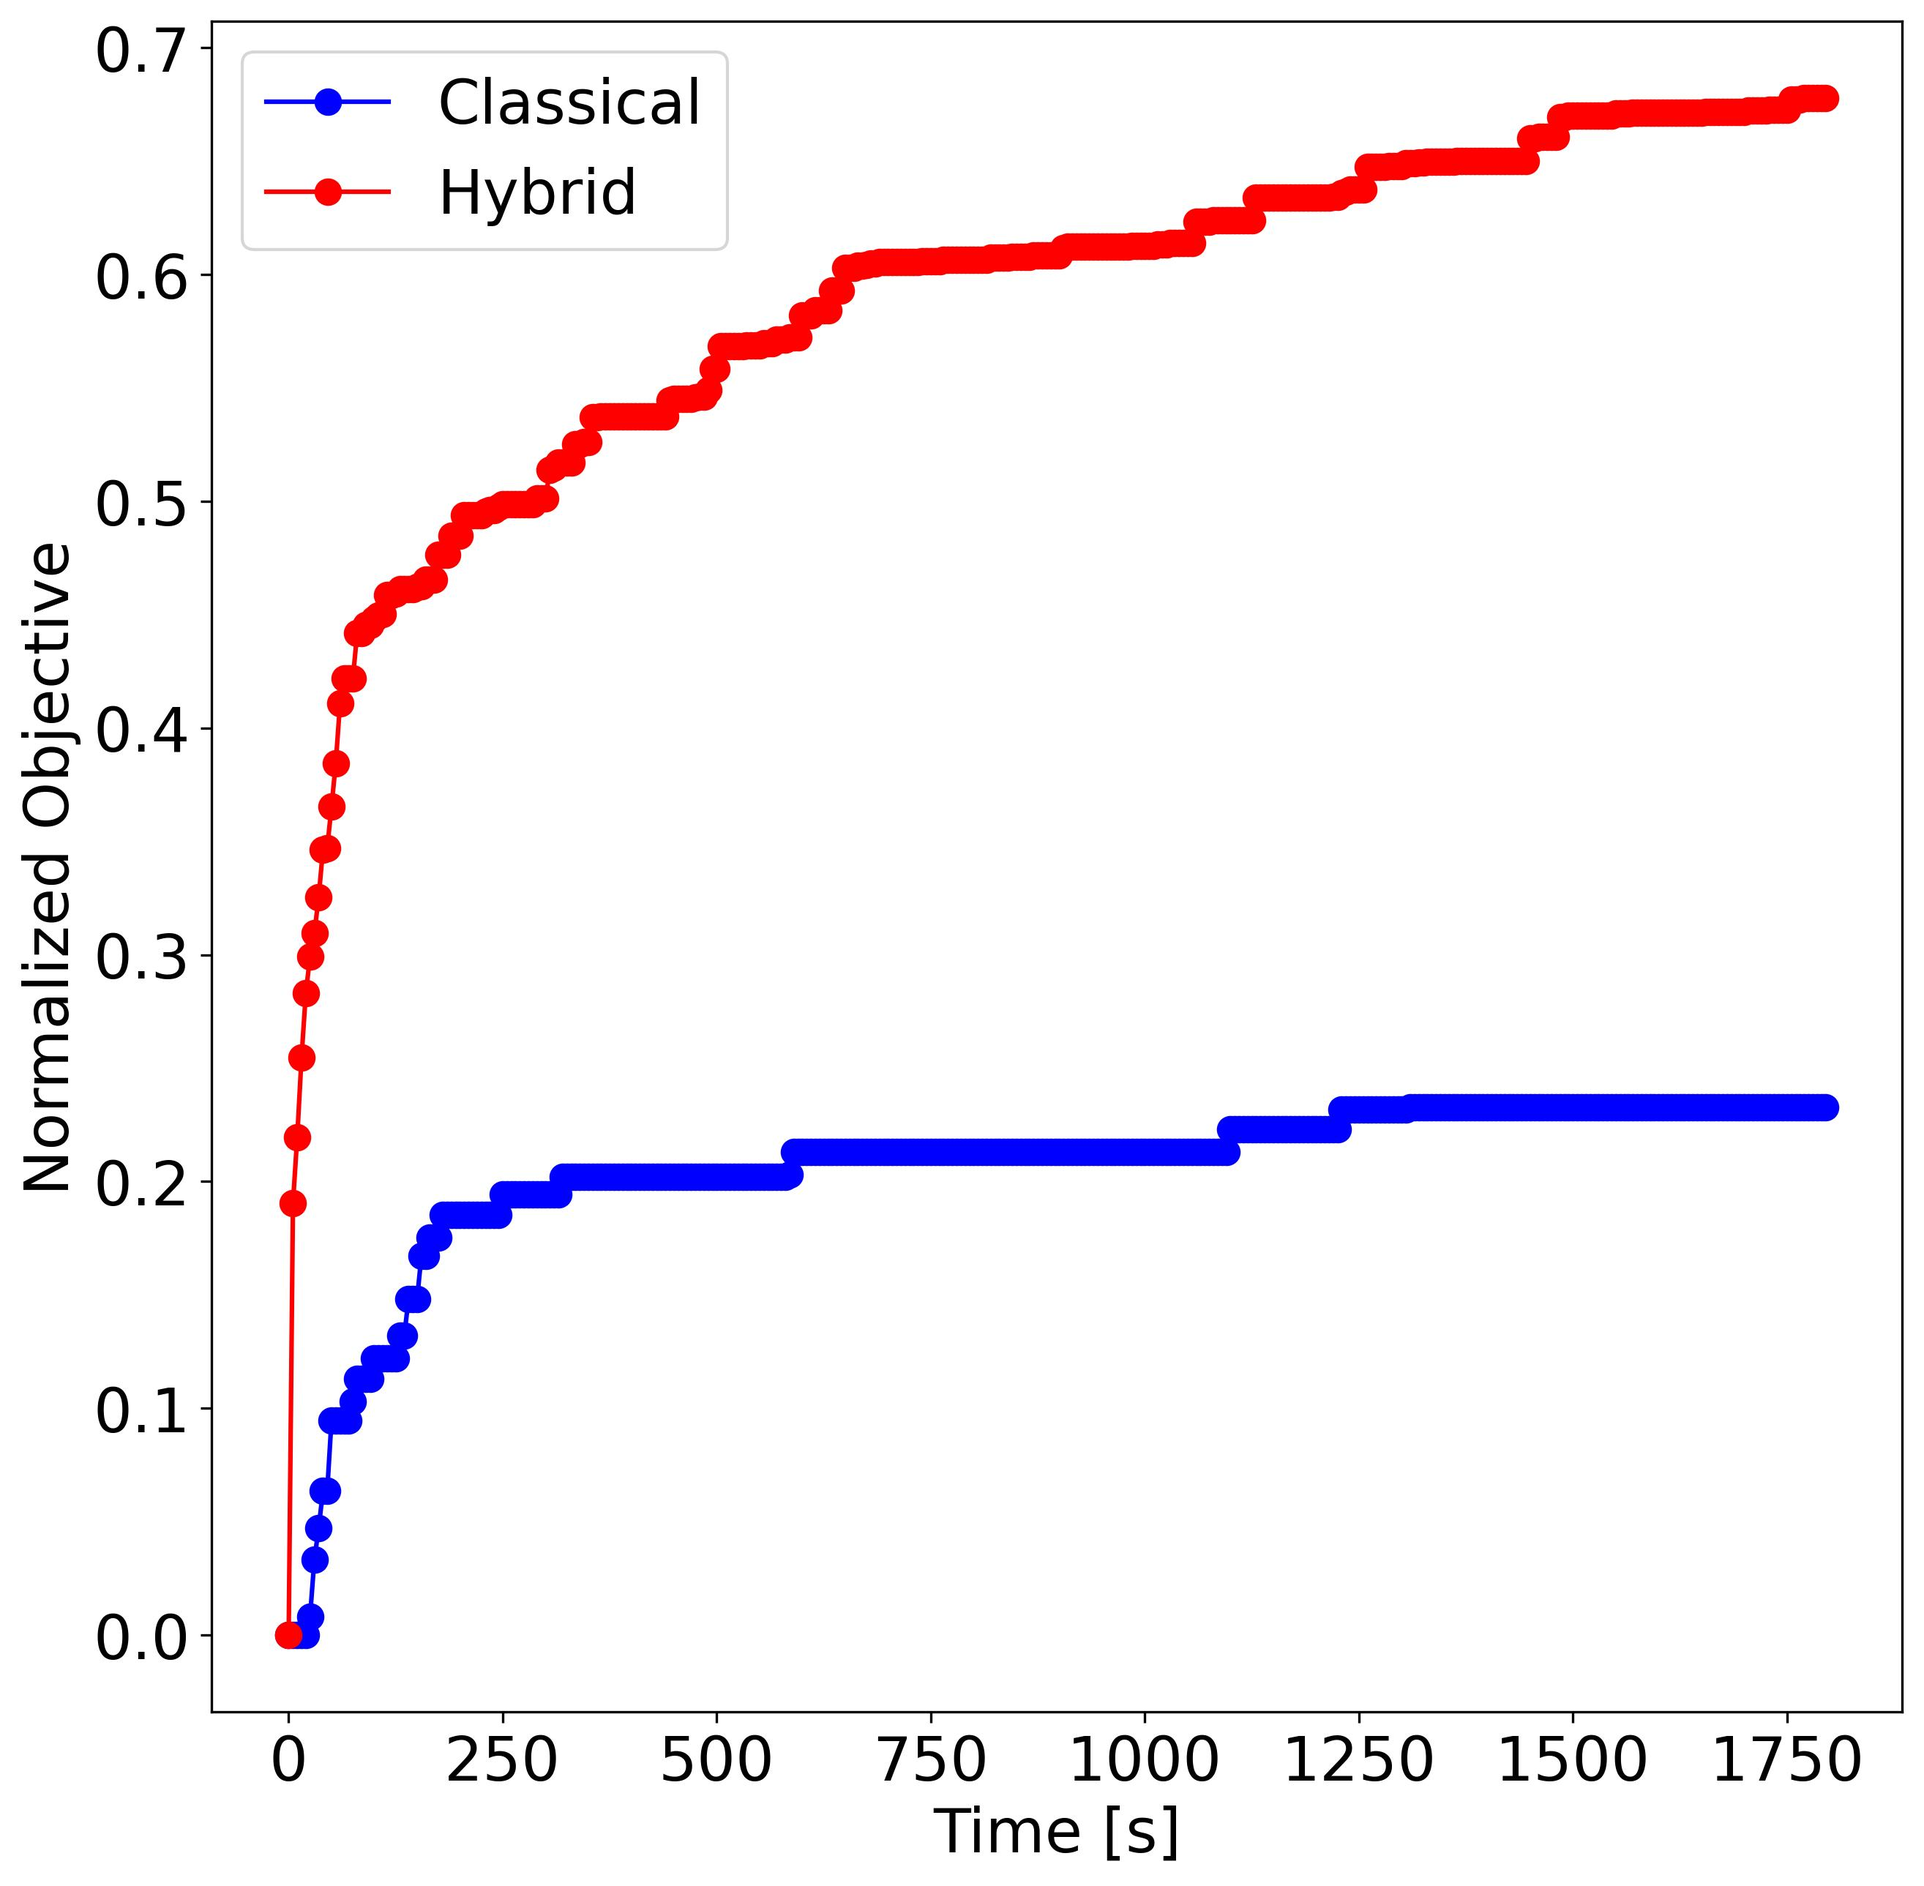
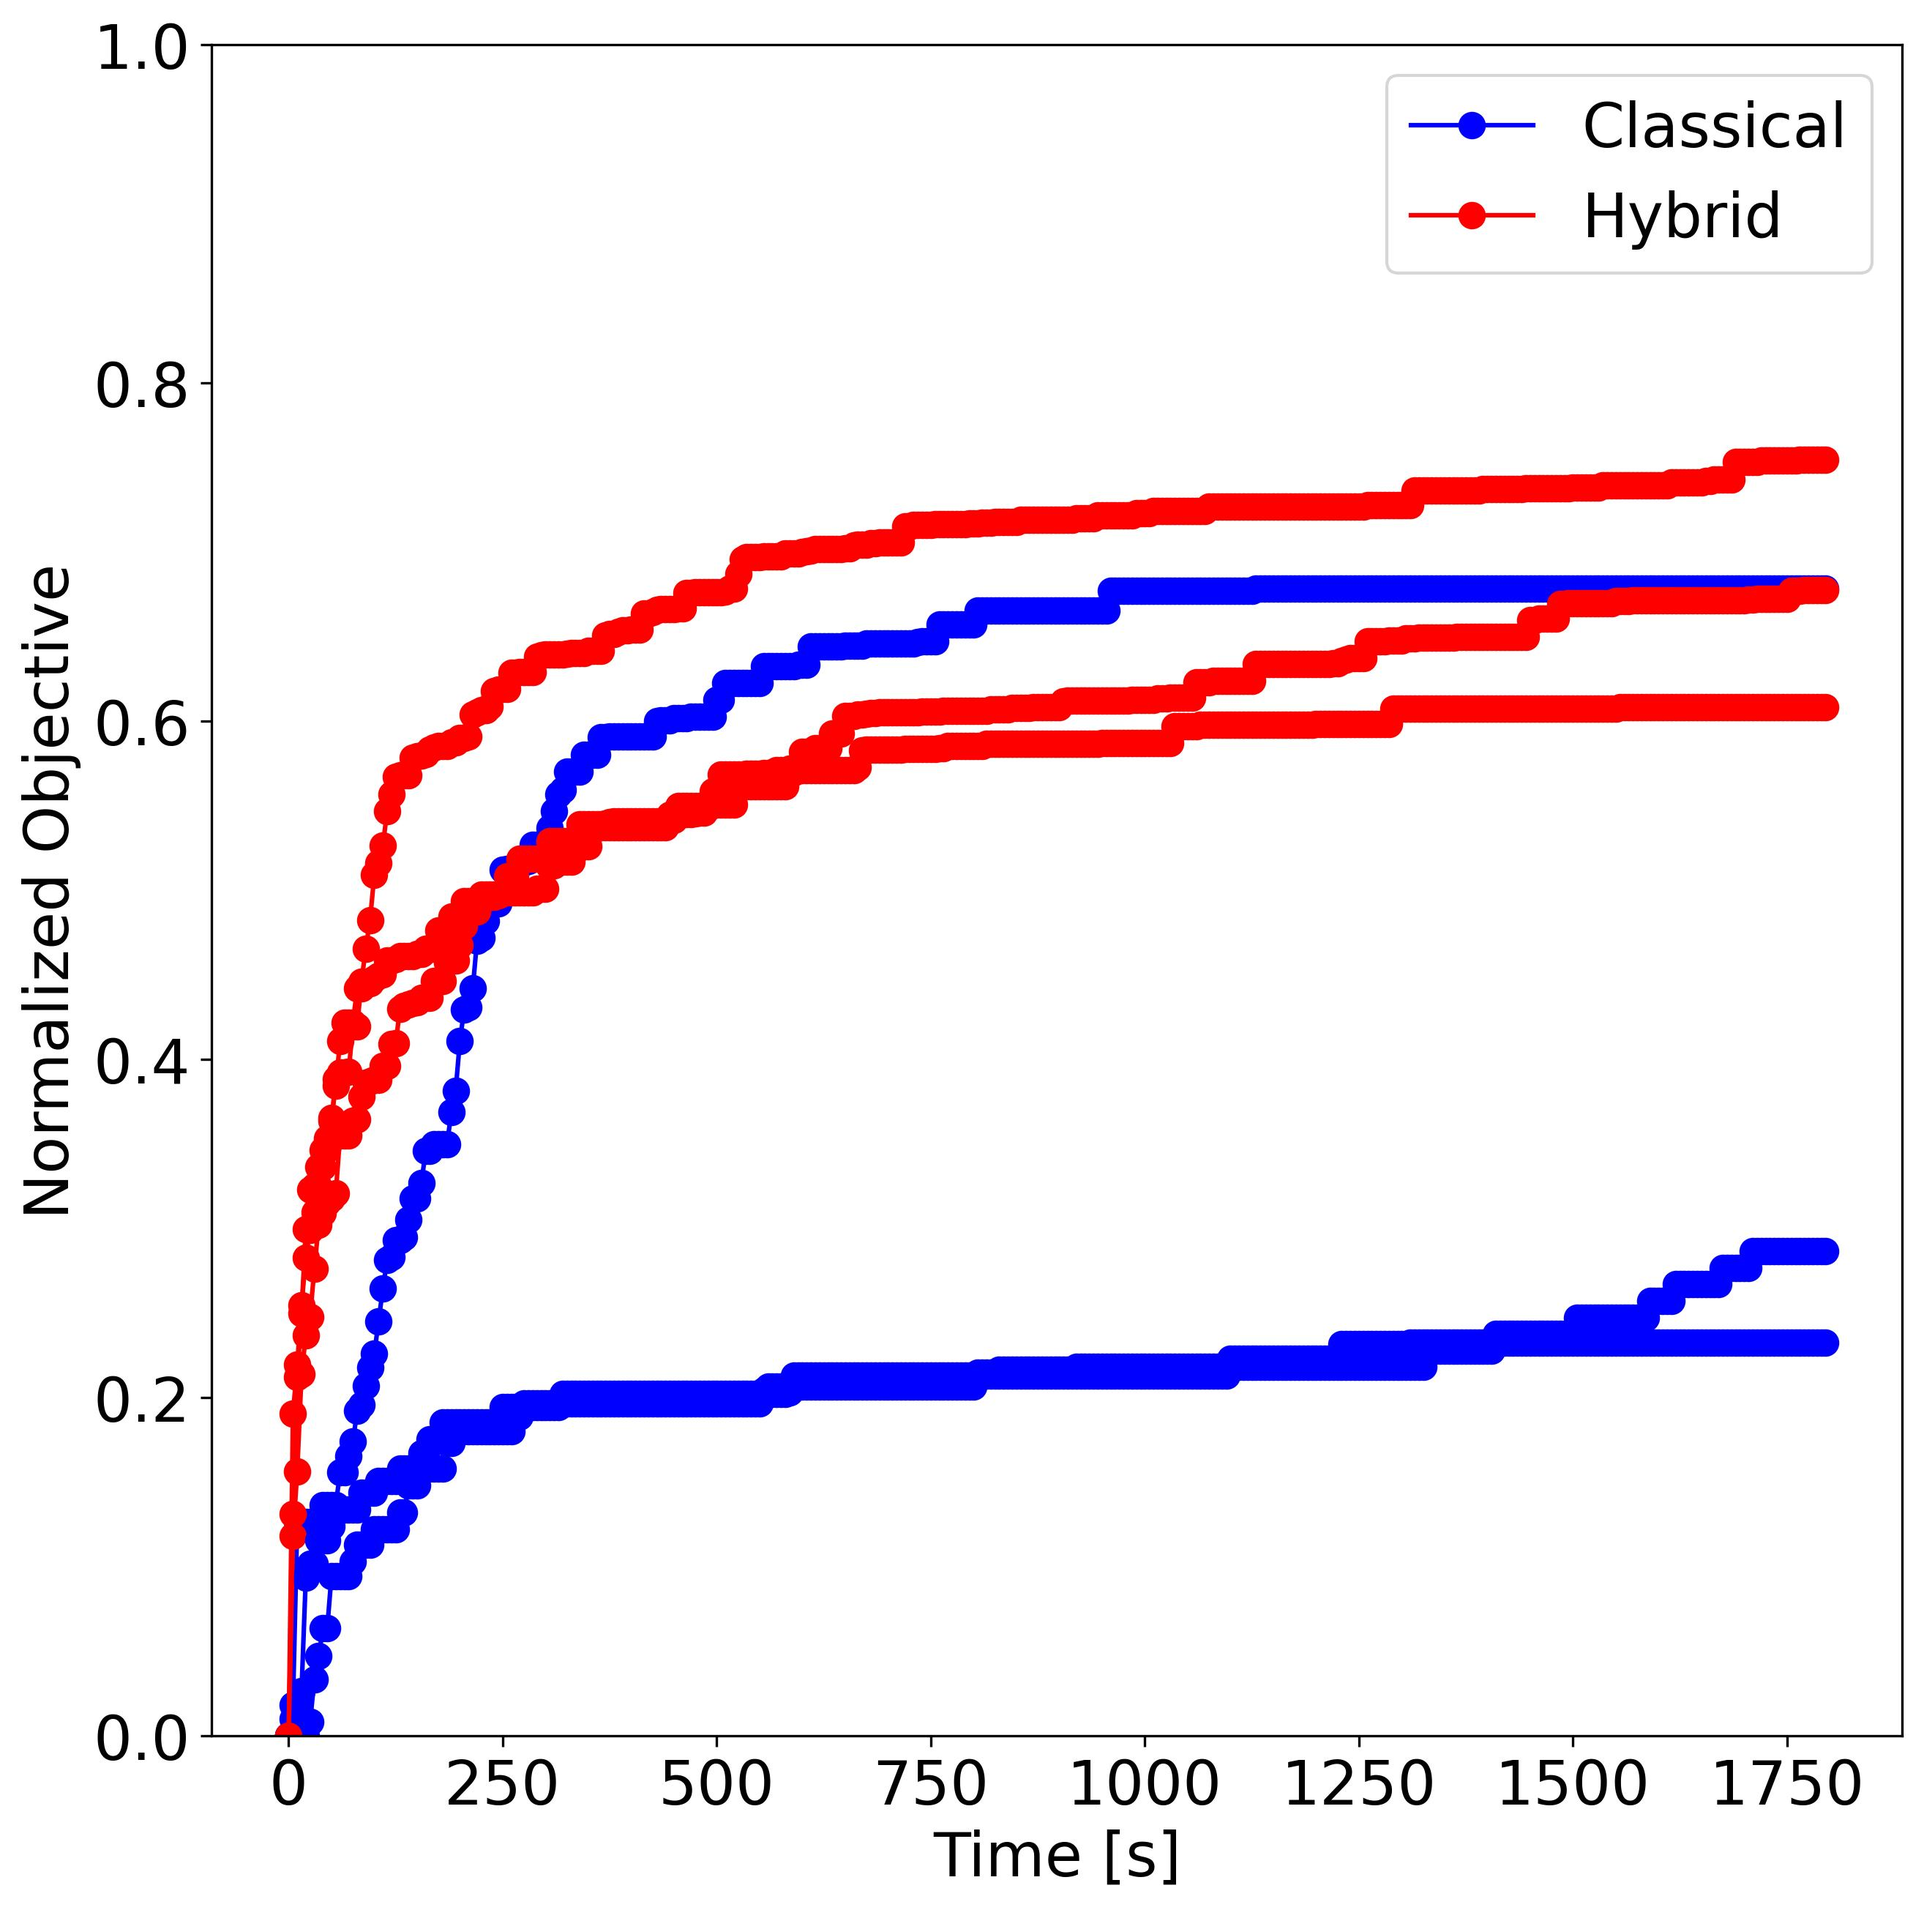
Adds multiple lines to obj vs time plot

diff --git a/plots/power_grid_opt.py b/plots/power_grid_opt.py
@@ -54,18 +54,21 @@ def plot_instance_objective_histories() -> None:
 
 def plot_average_normalized_objective_histories() -> None:
     """Plots average normalized objective histories for classical and hybrid solvers."""
-    num_generators = 11
-    data_path = Path(__file__).resolve().parent.parent / f"data/{num_generators}"
+    num_generators_list = [5, 10, 11]
     grid_times = np.arange(0, 1800, 5)
-
-    classical_histories = _load_solver_histories(data_path / ".solutions_classical.csv")
-    hybrid_histories = _load_solver_histories(data_path / ".solutions_hybrid.csv")
-    instance_ids = sorted(set(classical_histories) | set(hybrid_histories))
-    best_objectives = _get_best_objectives(instance_ids, classical_histories, hybrid_histories)
-    classical_curve = _get_average_normalized_curve(grid_times, instance_ids, classical_histories, best_objectives)
-    hybrid_curve = _get_average_normalized_curve(grid_times, instance_ids, hybrid_histories, best_objectives)
-    lines = [Line(grid_times, classical_curve, color="blue", label="Classical"), Line(grid_times, hybrid_curve, color="red", label="Hybrid")]
-    plot_general(lines, axis_labels=("Time [s]", "Normalized Objective"))
+    lines = []
+    for i, num_generators in enumerate(num_generators_list):
+        data_path = Path(__file__).resolve().parent.parent / f"data/{num_generators}"
+        classical_histories = _load_solver_histories(data_path / ".solutions_classical.csv")
+        hybrid_histories = _load_solver_histories(data_path / ".solutions_hybrid.csv")
+        instance_ids = sorted(set(classical_histories) | set(hybrid_histories))
+        best_objectives = _get_best_objectives(instance_ids, classical_histories, hybrid_histories)
+        line_style = 0
+        classical_curve = _get_average_normalized_curve(grid_times, instance_ids, classical_histories, best_objectives)
+        hybrid_curve = _get_average_normalized_curve(grid_times, instance_ids, hybrid_histories, best_objectives)
+        lines.append(Line(grid_times, classical_curve, color="blue", style=line_style, label="Classical" if i == 0 else "_nolabel_"))
+        lines.append(Line(grid_times, hybrid_curve, color="red", style=line_style, label="Hybrid" if i == 0 else "_nolabel_"))
+    plot_general(lines, axis_labels=("Time [s]", "Normalized Objective"), boundaries=(None, None, 0, 1))
     save_figure()
 
 
